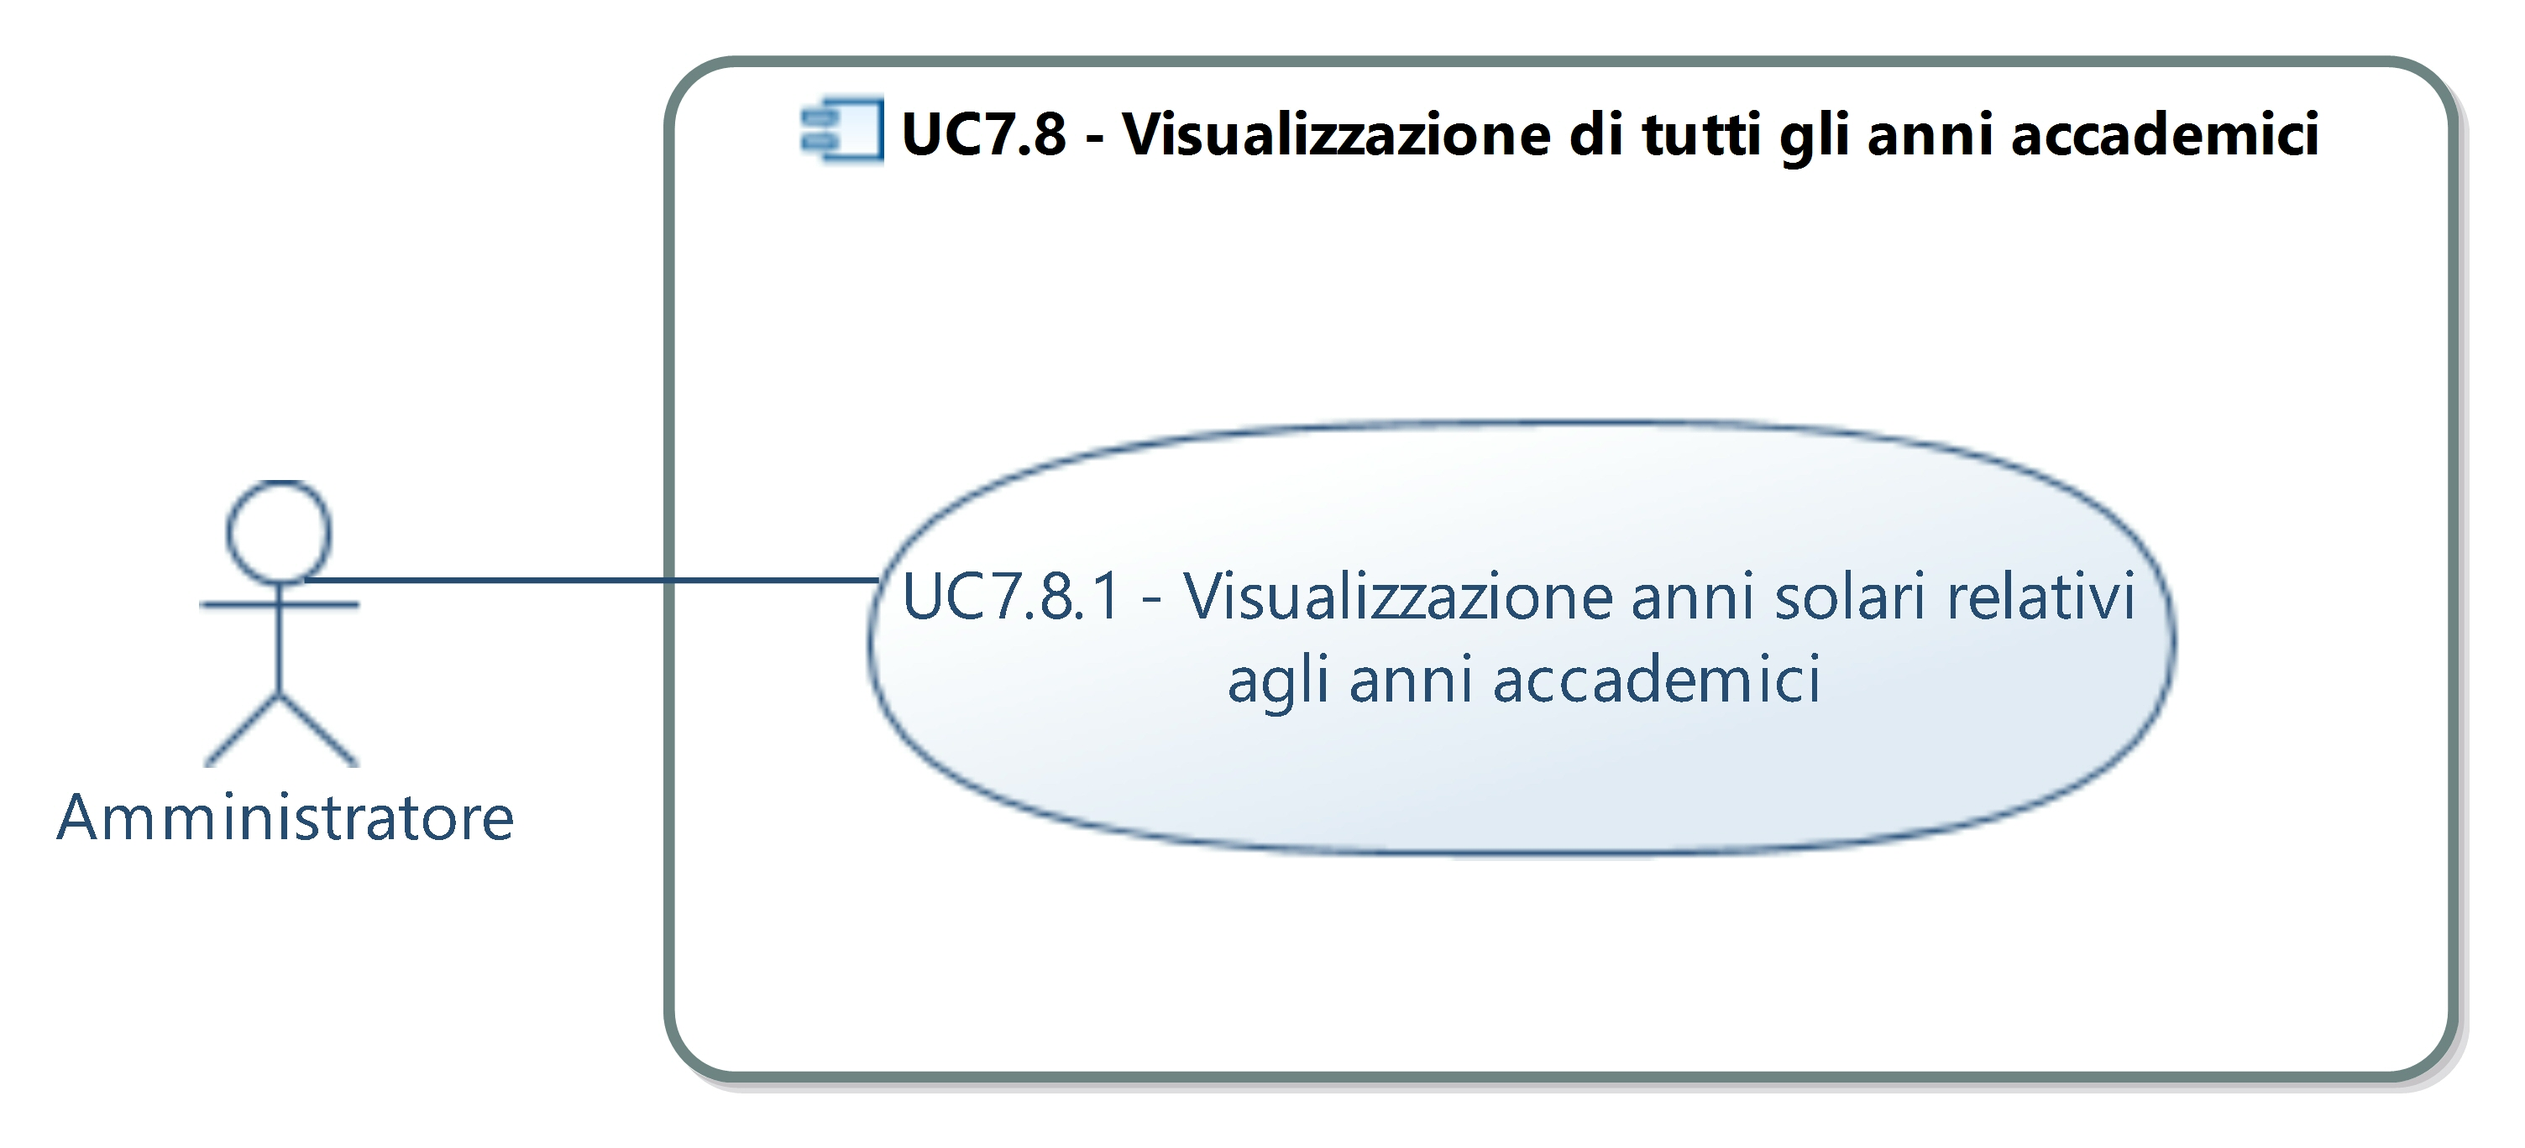
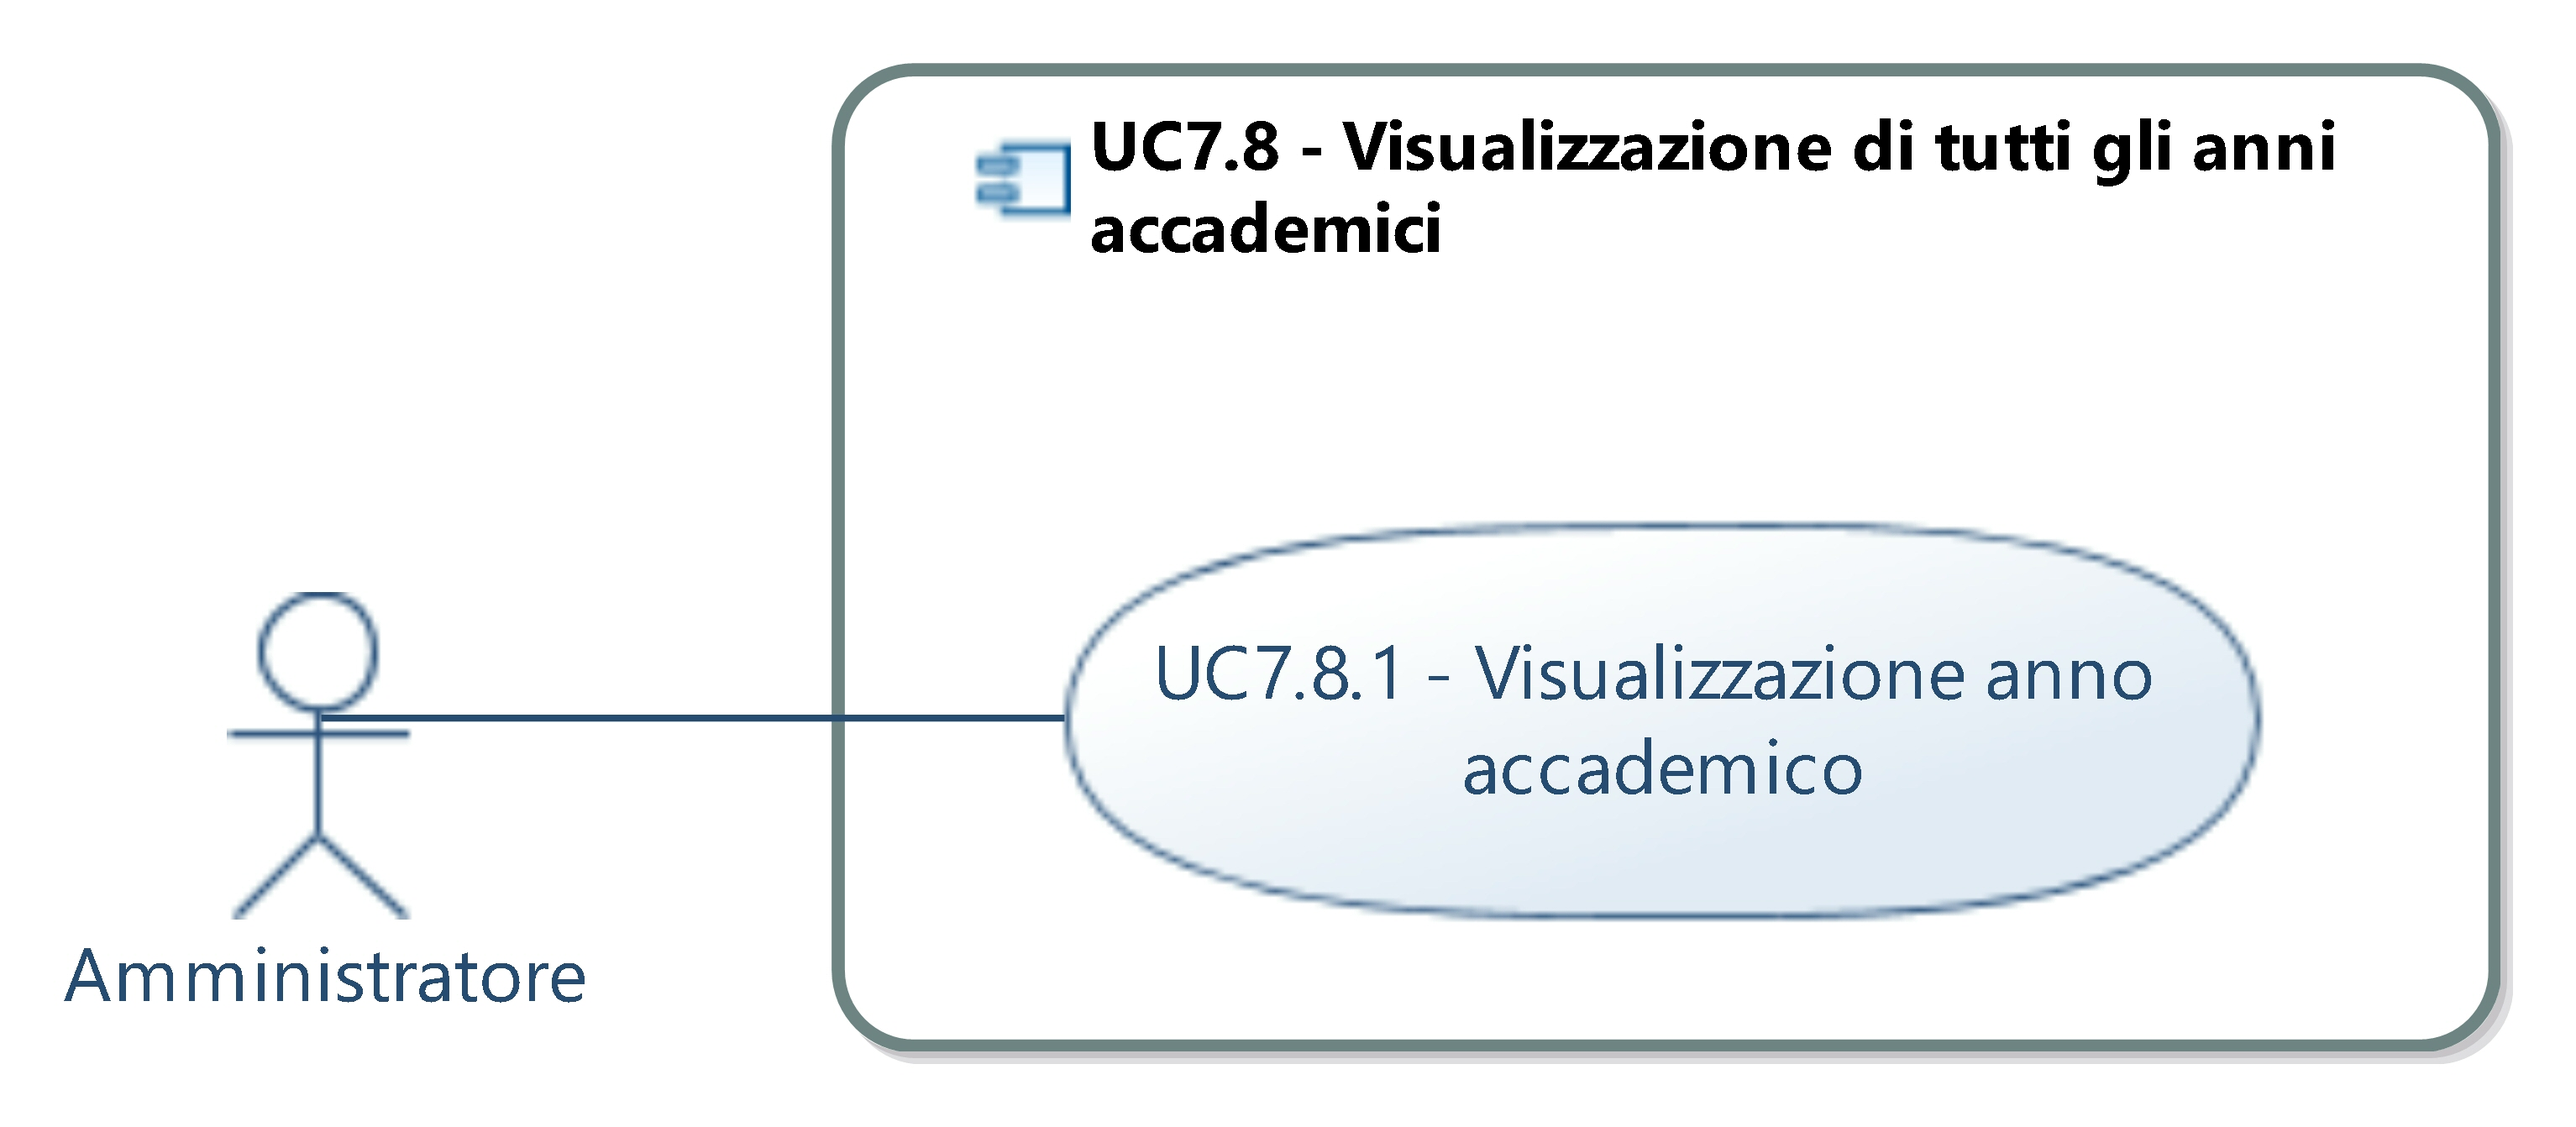
Corrette immagini fino a UC7.9

diff --git a/Esterni/AnalisiDeiRequisiti/CasiDUso.tex b/Esterni/AnalisiDeiRequisiti/CasiDUso.tex
@@ -1059,6 +1059,12 @@ Ogni scenario possibile per un attore è disponibile anche ai suoi derivati.
 	\item \textbf{Precondizione:} il sistema riconosce l'utente come amministratore, il quale richiede un anno accademico;
 	\item \textbf{Postcondizione:} il sistema visualizza le informazioni relative all'anno accademico indicatogli.
 \end{itemize}
+\begin{figure}[H]
+\centering
+\includegraphics[width=0.7\linewidth]{UC7_8_1.jpg}
+\caption{UC7.8.1 - Visualizzazione anno accademico}
+\label{UC7.8.1 - Visualizzazione anno accademico}
+\end{figure}
 \subsection{UC7.8.1.1 - Visualizzazione anno solare relativo ad un anno accademico}
 \begin{itemize}
 	\item \textbf{Attori primari:} amministratore;
@@ -1089,6 +1095,12 @@ Ogni scenario possibile per un attore è disponibile anche ai suoi derivati.
 	\item \textbf{Precondizione:} il sistema riconosce l'utente come amministratore e riceve una richiesta di visualizzazione delle informazioni basilari relative al professore per poterlo eventualmente assegnare ad un dato esame precedentemente indicato; 
 	\item \textbf{Postcondizione:} il sistema fornisce per il professore le relative informazioni.
 \end{itemize}
+\begin{figure}[H]
+\centering
+\includegraphics[width=0.7\linewidth]{UC7_9_1.jpg}
+\caption{UC7.9.1 - Visualizzazione professore}
+\label{UC7.9.1 - Visualizzazione professore}
+\end{figure}
 \subsection{UC7.9.1.1 - Visualizzazione nome professore}
 \begin{itemize}
 	\item \textbf{Attori primari:} amministratore;

diff --git a/Esterni/AnalisiDeiRequisiti/diariomodifiche.tex b/Esterni/AnalisiDeiRequisiti/diariomodifiche.tex
@@ -38,8 +38,6 @@
 	{\alista}
 	
 	% MANCANO IMMAGINI + FIX IMMAGINI:
-	% 7.8
-	% 7.9
 	% 8.1
 	% 8.2
 	% 9.1
